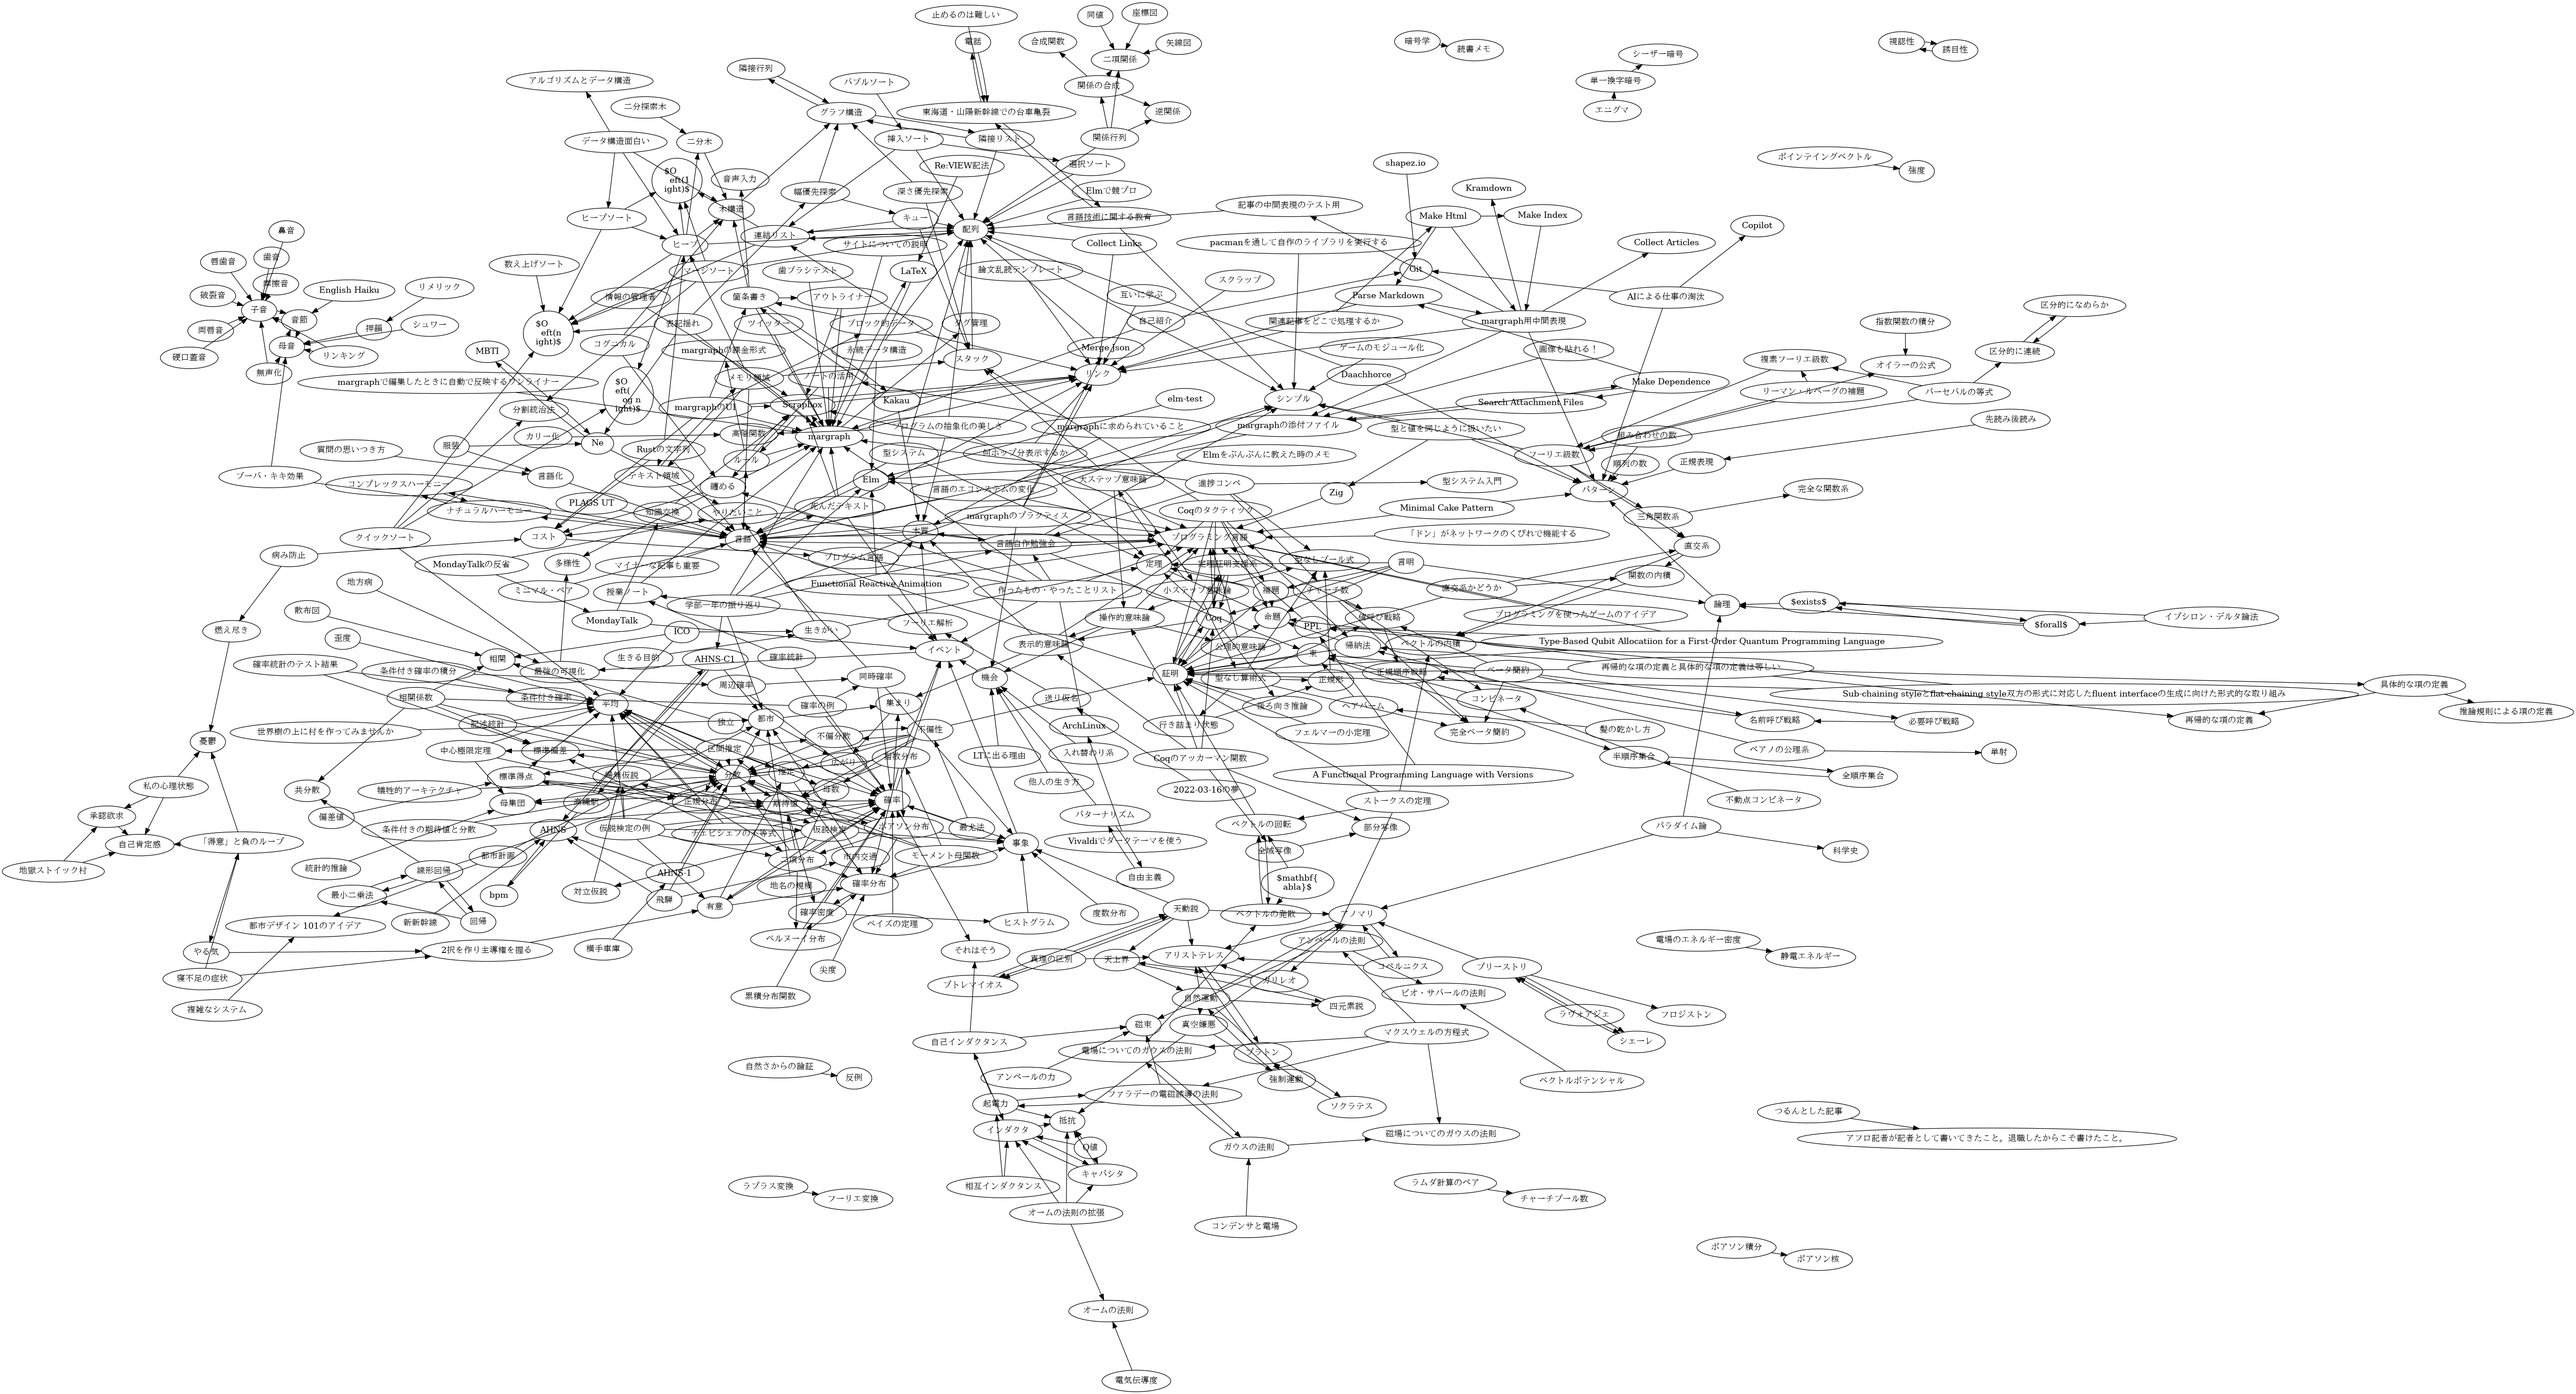
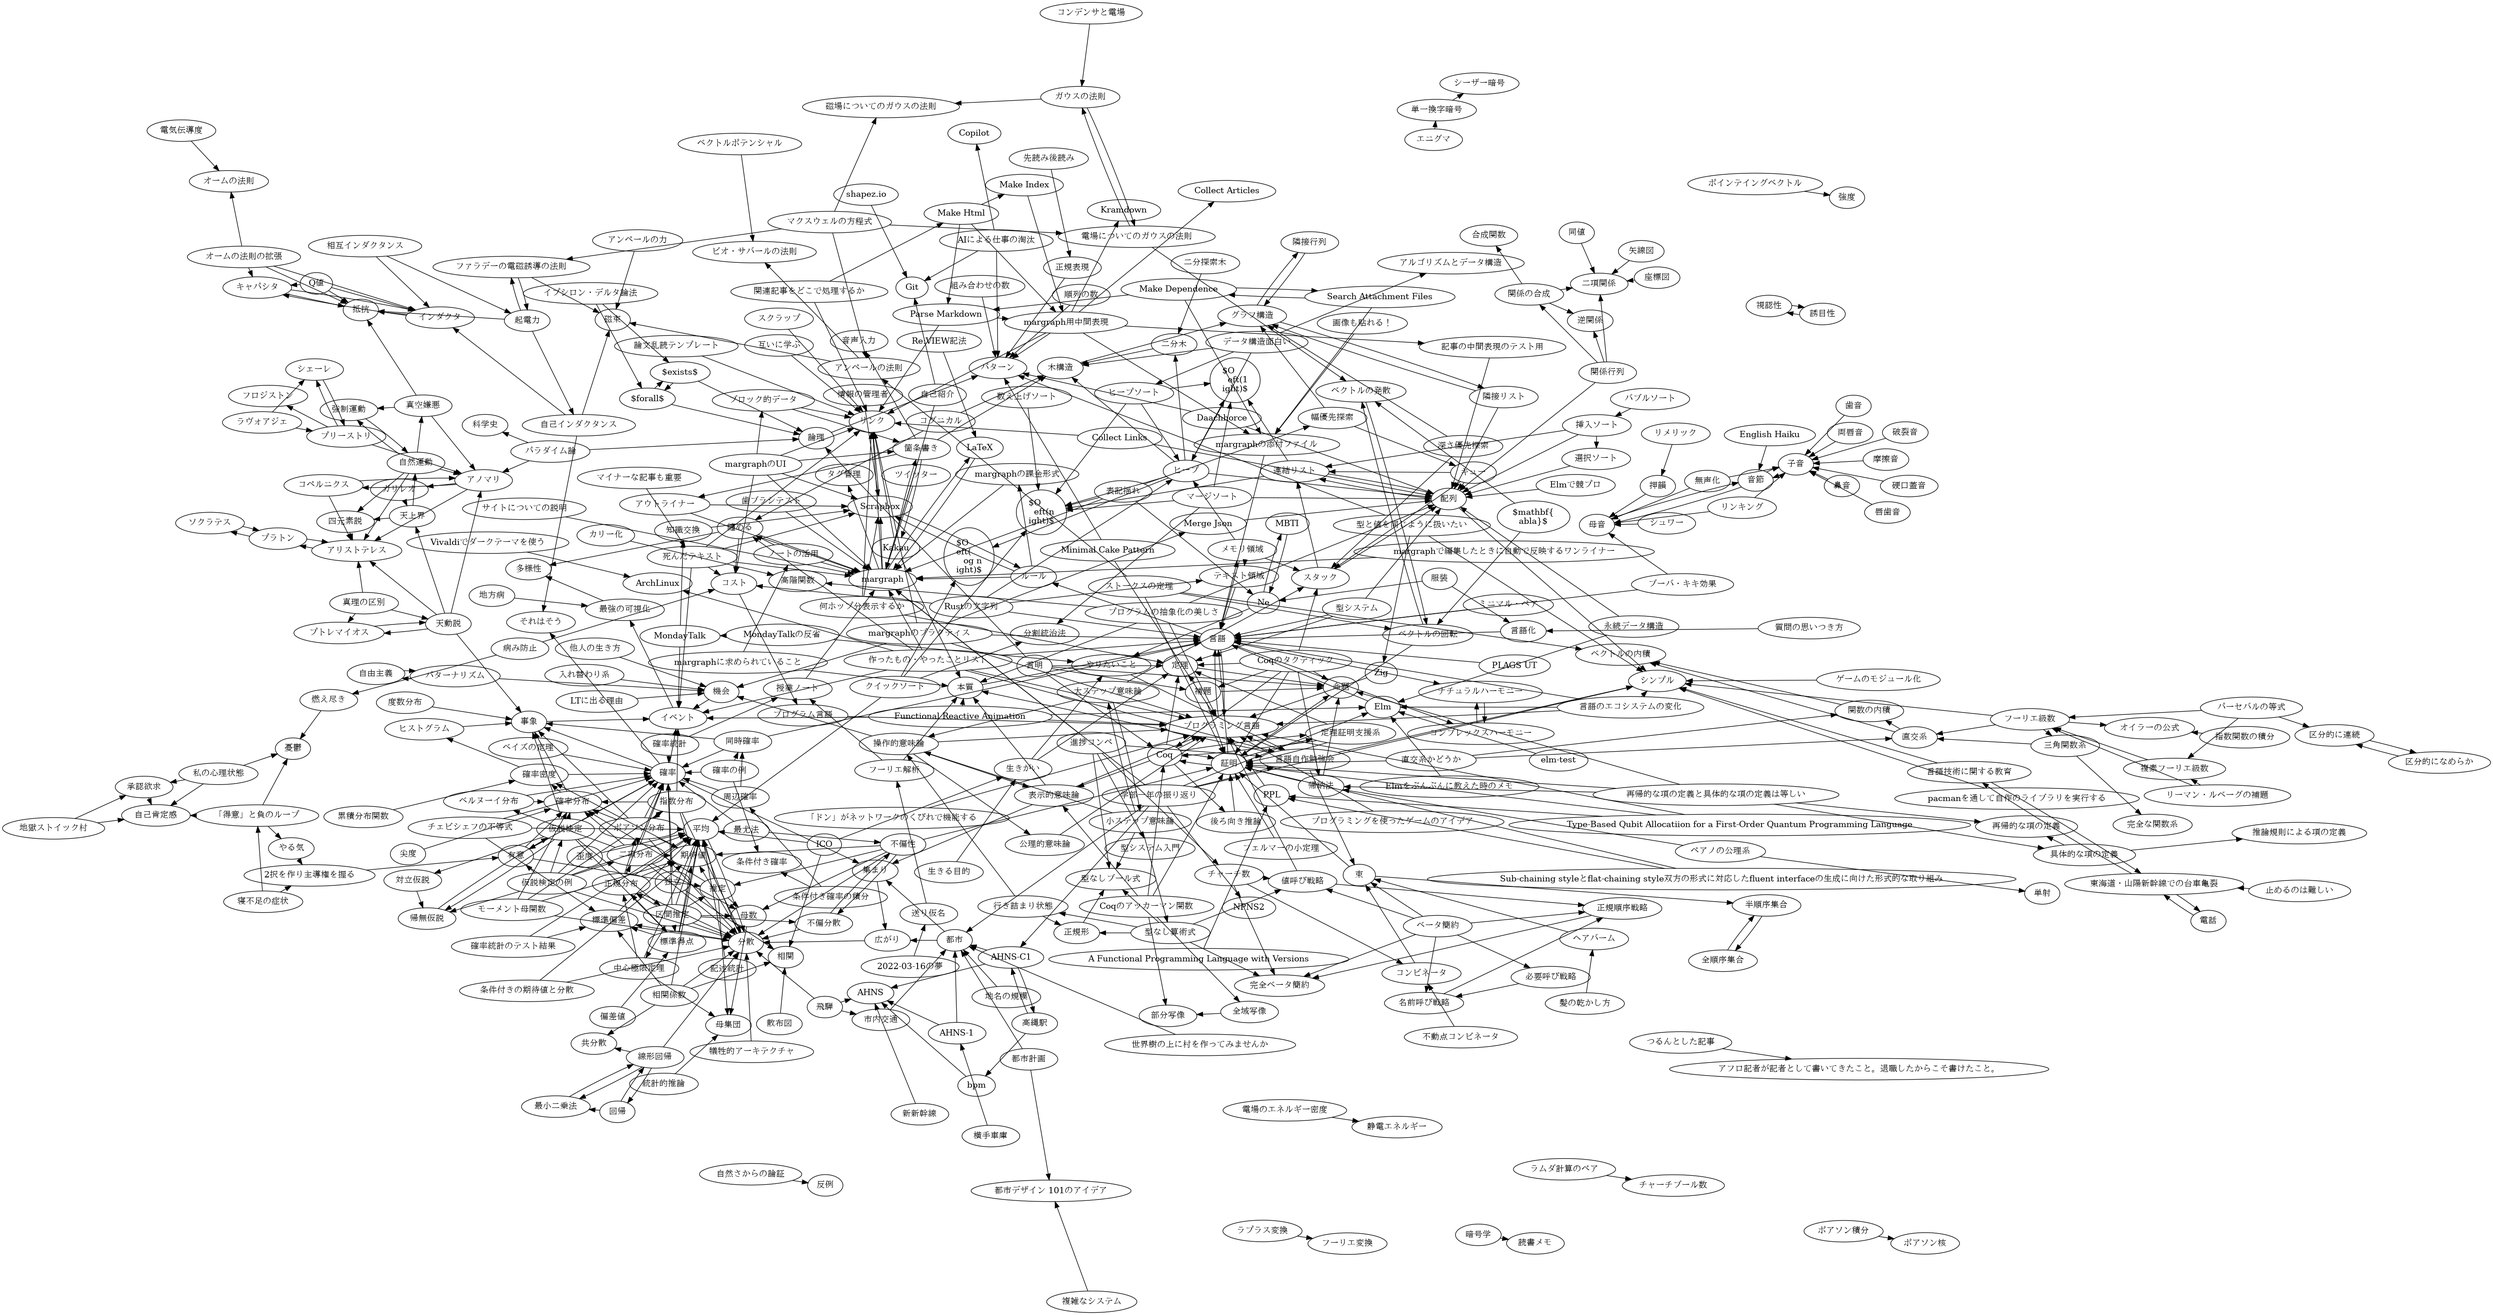
deploy: 27d2f008388f9dc25619241718513e81f91e2d1b

diff --git a/simutrans/npns2.html b/simutrans/npns2.html
@@ -7,7 +7,7 @@
     <link rel="stylesheet" href="https://cdn.jsdelivr.net/npm/bootstrap-dark-5@1.1.3/dist/css/bootstrap-nightfall.min.css" media="(prefers-color-scheme: dark)">
     <link rel="stylesheet" href="https://cdnjs.cloudflare.com/ajax/libs/highlight.js/11.3.1/styles/base16/ashes.min.css">
     <link rel="stylesheet" href="../style.css" type="text/css">
-    <title>新新幹線</title>
+    <title>NPNS2</title>
   </head>
   <body>
     
@@ -19,27 +19,25 @@
           
             <li class="breadcrumb-item"><a href="../simutrans/index.html">simutrans</a></li>
           
-          <li class="breadcrumb-item">新新幹線</li>
+          <li class="breadcrumb-item">NPNS2</li>
         </ol>
       </div>
     </nav>
 
     <article class="container" style="max-width: 40em;">
 
-      <h1>新新幹線</h1>
+      <h1>NPNS2</h1>
 
       
         <div class="contents">
         
             
               <div><ul>
-  <li><a href="../simutrans/ahns.html">AHNS</a>-F1で作った、1000両を超える新幹線</li>
-  <li>OTRPの連結機能を使って作ろうとした
-    <ul>
-      <li>OTRPの連結機能の仕様が変わってて、新しい仕様がわからなくて失敗した</li>
-    </ul>
-  </li>
-  <li>ホームくっそ長い</li>
+  <li>NPNSの第二期サーバー</li>
+  <li>うちは北側の北海でバスプレイをしていた</li>
+  <li>端っこに接続駅とデカいバス車庫を作ってやってた</li>
+  <li>いまいち旅客の流動をつかめず、綺麗な流動にはできなかった</li>
+  <li>受験期にめっちゃ遊んだ覚えが…</li>
 </ul>
 </div>
             
@@ -60,7 +58,7 @@
             <div class="col">
               
                 前の記事<br />
-                <a href="../simutrans/inner-city-transfar.html">市内交通</a>
+                <a href="../simutrans/new-shinkansen.html">新新幹線</a>
               
             </div>
             <div class="col">
@@ -72,7 +70,7 @@
             <div class="col">
               
                 次の記事<br />
-                <a href="../simutrans/npns2.html">NPNS2</a>
+                <a href="../simutrans/takanawa.html">高縄駅</a>
               
             </div>
           </div>
@@ -81,7 +79,7 @@
 
       <div class="d-flex flex-row-reverse">
         
-          <button type="button" class="btn btn-outline-primary btn-sm" onclick="window.location.href='https://github.com/soukouki/margraph/edit/master/src/simutrans/new-shinkansen.md';">Edit</button>
+          <button type="button" class="btn btn-outline-primary btn-sm" onclick="window.location.href='https://github.com/soukouki/margraph/edit/master/src/simutrans/npns2.md';">Edit</button>
         
         
       </div>
@@ -93,8 +91,8 @@
             <div class="col-4">
               <div class="card h-100">
                 <div class="card-body">
-                  <h5 class="card-title fs-6"><a href="../simutrans/ahns.html">AHNS</a></h5>
-                  <p class="card-text">- ahakuokuが開いたNSサーバー - 主にpak128...</p>
+                  <h5 class="card-title fs-6"><a href="../other/undergraduate-1.html">学部一年の振り返り</a></h5>
+                  <p class="card-text">- プログラミング関連について   - Rustを触ってみたり...</p>
                 </div>
               </div>
             </div>
@@ -102,8 +100,35 @@
               <div class="col-4">
                 <div class="card h-100">
                   <div class="card-body">
-                    <h5 class="card-title fs-6"><a href="../simutrans/ahns-1.html">AHNS-1</a></h5>
-                    <p class="card-text">- 初めてのAHNS本戦   - この前にテスト鯖があった -...</p>
+                    <h5 class="card-title fs-6"><a href="../programming/elm.html">Elm</a></h5>
+                    <p class="card-text">- 純粋関数型言語 - 機能がかなり絞ってあるので、関数型への...</p>
+                  </div>
+                </div>
+              </div>
+            
+              <div class="col-4">
+                <div class="card h-100">
+                  <div class="card-body">
+                    <h5 class="card-title fs-6"><a href="../programming/makeing-language-workspace.html">言語自作勉強会</a></h5>
+                    <p class="card-text">の反省 ## 概要 事前に私が作った[baby-interpr...</p>
+                  </div>
+                </div>
+              </div>
+            
+              <div class="col-4">
+                <div class="card h-100">
+                  <div class="card-body">
+                    <h5 class="card-title fs-6"><a href="../other/senren.html">シンプル</a></h5>
+                    <p class="card-text">- 機能をシンプルにするには、大きく2つあると思う - 機能を...</p>
+                  </div>
+                </div>
+              </div>
+            
+              <div class="col-4">
+                <div class="card h-100">
+                  <div class="card-body">
+                    <h5 class="card-title fs-6"><a href="../margraph/01-note.html">margraph</a></h5>
+                    <p class="card-text">named by sizumita - Scrapboxがgo...</p>
                   </div>
                 </div>
               </div>
@@ -120,17 +145,8 @@
               <div class="col-4">
                 <div class="card h-100">
                   <div class="card-body">
-                    <h5 class="card-title fs-6"><a href="../simutrans/bpm.html">bpm</a></h5>
-                    <p class="card-text">- bit per monthの略 - 1増やすごとに1ヶ月の...</p>
-                  </div>
-                </div>
-              </div>
-            
-              <div class="col-4">
-                <div class="card h-100">
-                  <div class="card-body">
-                    <h5 class="card-title fs-6"><a href="../simutrans/hida.html">飛騨</a></h5>
-                    <p class="card-text">- AHNS-C2の飛騨付近の開発計画 - ニューヨークやシカ...</p>
+                    <h5 class="card-title fs-6"><a href="../other/city.html">都市</a></h5>
+                    <p class="card-text">- 都市には広がりと集まりが必要なのではないか   - 集まり...</p>
                   </div>
                 </div>
               </div>

diff --git a/other/undergraduate-1.html b/other/undergraduate-1.html
@@ -71,14 +71,14 @@
   </li>
   <li>Simutransについて
     <ul>
-      <li>NPNS2でバスプレイ
+      <li><a href="../simutrans/npns2.html">NPNS2</a>でバスプレイ
         <ul>
           <li>需要を読めなかった</li>
         </ul>
       </li>
       <li><a href="../simutrans/ahns-c1.html">AHNS-C1</a> Extraでバスターミナル中心の開発をやり尽くせた
         <ul>
-          <li>NPNS2、<a href="../simutrans/ahns-c1.html">AHNS-C1</a>のリベンジができた</li>
+          <li><a href="../simutrans/npns2.html">NPNS2</a>、<a href="../simutrans/ahns-c1.html">AHNS-C1</a>のリベンジができた</li>
           <li>付近の鉄道の需要を食い尽くしたり</li>
           <li>8車線道路を有効活用したり</li>
           <li><a href="../other/city.html">都市</a>高の活躍はまだ</li>
@@ -537,6 +537,18 @@
                   </div>
                 </div>
               </div>
+            
+          </div>
+        
+          <div class="row flex-nowrap overflow-auto">
+            <div class="col-4">
+              <div class="card h-100">
+                <div class="card-body">
+                  <h5 class="card-title fs-6"><a href="../simutrans/npns2.html">NPNS2</a></h5>
+                  <p class="card-text">- NPNSの第二期サーバー - うちは北側の北海でバスプレイ...</p>
+                </div>
+              </div>
+            </div>
             
           </div>
         

diff --git a/margraph/01-note.html b/margraph/01-note.html
@@ -712,6 +712,15 @@
               <div class="col-4">
                 <div class="card h-100">
                   <div class="card-body">
+                    <h5 class="card-title fs-6"><a href="../simutrans/npns2.html">NPNS2</a></h5>
+                    <p class="card-text">- NPNSの第二期サーバー - うちは北側の北海でバスプレイ...</p>
+                  </div>
+                </div>
+              </div>
+            
+              <div class="col-4">
+                <div class="card h-100">
+                  <div class="card-body">
                     <h5 class="card-title fs-6"><a href="../simutrans/ahns-c1.html">AHNS-C1</a></h5>
                     <p class="card-text">- AHNSのコンセプト鯖 - 途中から中心都市の成京の路線バ...</p>
                   </div>

diff --git a/other/senren.html b/other/senren.html
@@ -240,6 +240,15 @@
               <div class="col-4">
                 <div class="card h-100">
                   <div class="card-body">
+                    <h5 class="card-title fs-6"><a href="../simutrans/npns2.html">NPNS2</a></h5>
+                    <p class="card-text">- NPNSの第二期サーバー - うちは北側の北海でバスプレイ...</p>
+                  </div>
+                </div>
+              </div>
+            
+              <div class="col-4">
+                <div class="card h-100">
+                  <div class="card-body">
                     <h5 class="card-title fs-6"><a href="../simutrans/ahns-c1.html">AHNS-C1</a></h5>
                     <p class="card-text">- AHNSのコンセプト鯖 - 途中から中心都市の成京の路線バ...</p>
                   </div>

diff --git a/programming/elm.html b/programming/elm.html
@@ -333,6 +333,15 @@
               <div class="col-4">
                 <div class="card h-100">
                   <div class="card-body">
+                    <h5 class="card-title fs-6"><a href="../simutrans/npns2.html">NPNS2</a></h5>
+                    <p class="card-text">- NPNSの第二期サーバー - うちは北側の北海でバスプレイ...</p>
+                  </div>
+                </div>
+              </div>
+            
+              <div class="col-4">
+                <div class="card h-100">
+                  <div class="card-body">
                     <h5 class="card-title fs-6"><a href="../simutrans/ahns-c1.html">AHNS-C1</a></h5>
                     <p class="card-text">- AHNSのコンセプト鯖 - 途中から中心都市の成京の路線バ...</p>
                   </div>

diff --git a/programming/makeing-language-workspace.html b/programming/makeing-language-workspace.html
@@ -726,6 +726,15 @@
               <div class="col-4">
                 <div class="card h-100">
                   <div class="card-body">
+                    <h5 class="card-title fs-6"><a href="../simutrans/npns2.html">NPNS2</a></h5>
+                    <p class="card-text">- NPNSの第二期サーバー - うちは北側の北海でバスプレイ...</p>
+                  </div>
+                </div>
+              </div>
+            
+              <div class="col-4">
+                <div class="card h-100">
+                  <div class="card-body">
                     <h5 class="card-title fs-6"><a href="../simutrans/ahns-c1.html">AHNS-C1</a></h5>
                     <p class="card-text">- AHNSのコンセプト鯖 - 途中から中心都市の成京の路線バ...</p>
                   </div>

diff --git a/other/city.html b/other/city.html
@@ -209,6 +209,15 @@
                 </div>
               </div>
             
+              <div class="col-4">
+                <div class="card h-100">
+                  <div class="card-body">
+                    <h5 class="card-title fs-6"><a href="../simutrans/npns2.html">NPNS2</a></h5>
+                    <p class="card-text">- NPNSの第二期サーバー - うちは北側の北海でバスプレイ...</p>
+                  </div>
+                </div>
+              </div>
+            
           </div>
         
           <div class="row flex-nowrap overflow-auto">

diff --git a/simutrans/ahns-c1.html b/simutrans/ahns-c1.html
@@ -266,6 +266,15 @@
                 </div>
               </div>
             
+              <div class="col-4">
+                <div class="card h-100">
+                  <div class="card-body">
+                    <h5 class="card-title fs-6"><a href="../simutrans/npns2.html">NPNS2</a></h5>
+                    <p class="card-text">- NPNSの第二期サーバー - うちは北側の北海でバスプレイ...</p>
+                  </div>
+                </div>
+              </div>
+            
           </div>
         
       </div>

diff --git a/simutrans/index.html b/simutrans/index.html
@@ -64,6 +64,10 @@
           </div>
         
           <div class="list-group-item">
+            <a href="../simutrans/npns2.html">NPNS2</a>
+          </div>
+        
+          <div class="list-group-item">
             <a href="../simutrans/takanawa.html">高縄駅</a>
           </div>
         

diff --git a/simutrans/takanawa.html b/simutrans/takanawa.html
@@ -61,7 +61,7 @@
             <div class="col">
               
                 前の記事<br />
-                <a href="../simutrans/new-shinkansen.html">新新幹線</a>
+                <a href="../simutrans/npns2.html">NPNS2</a>
               
             </div>
             <div class="col">
